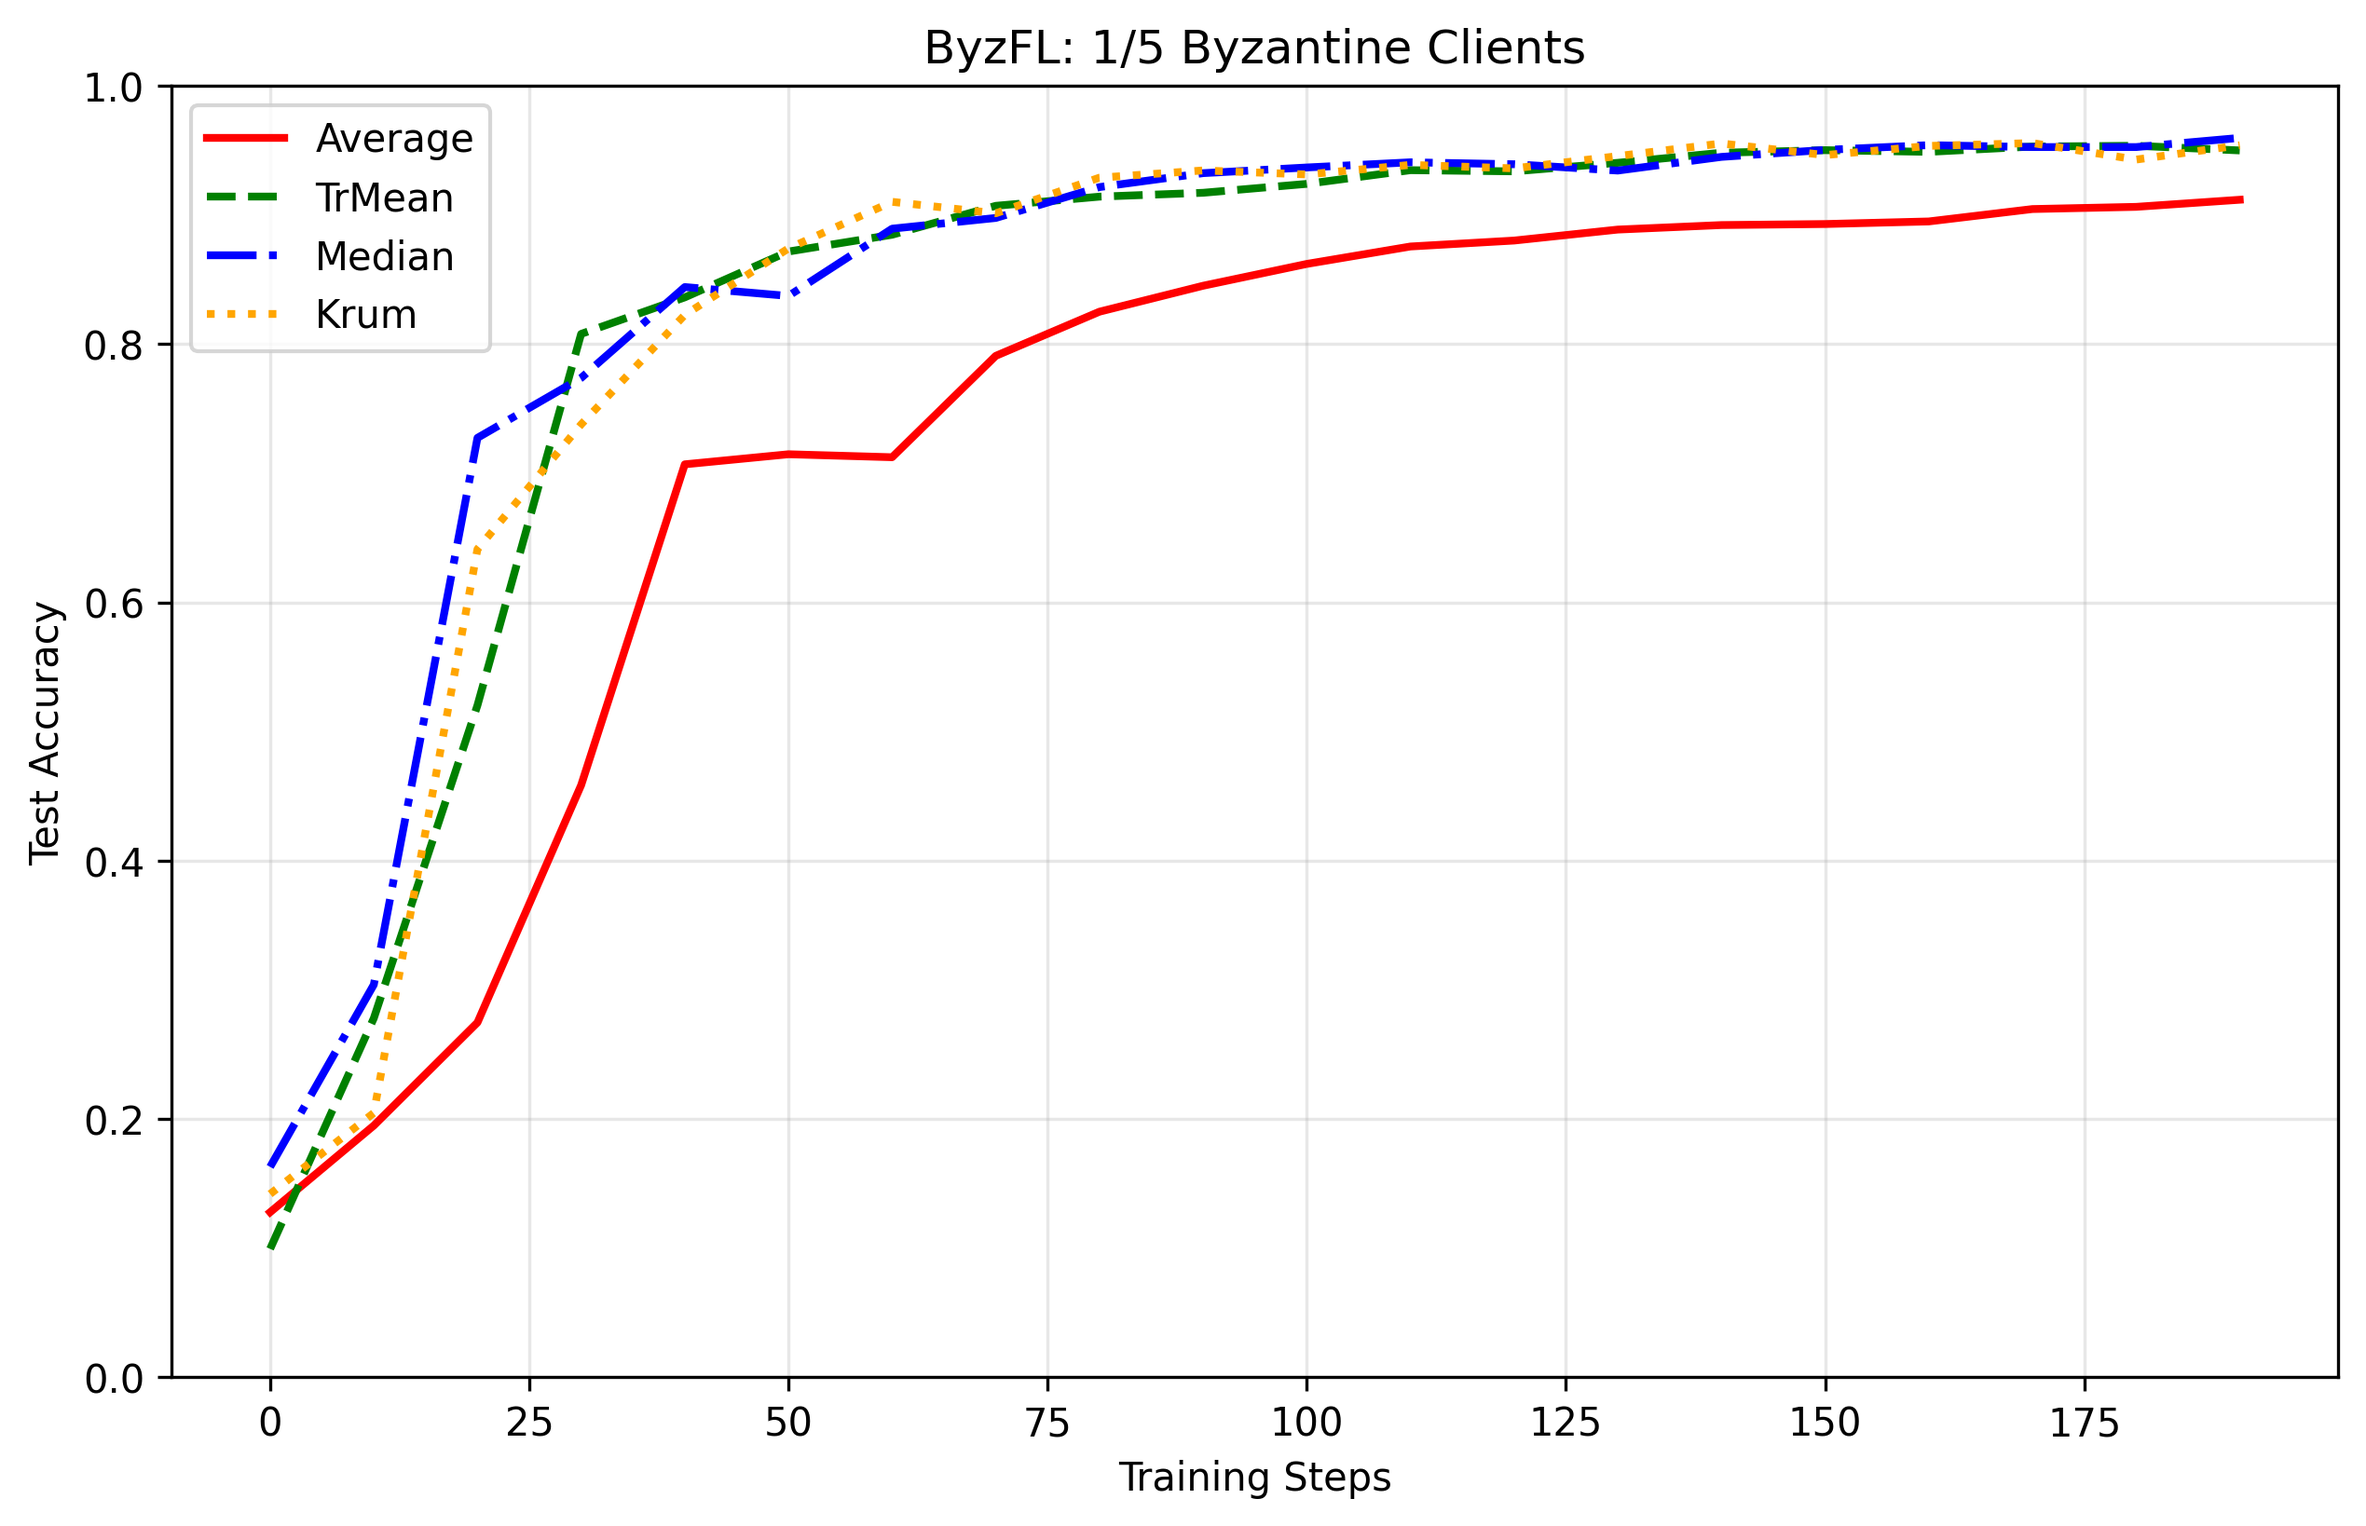
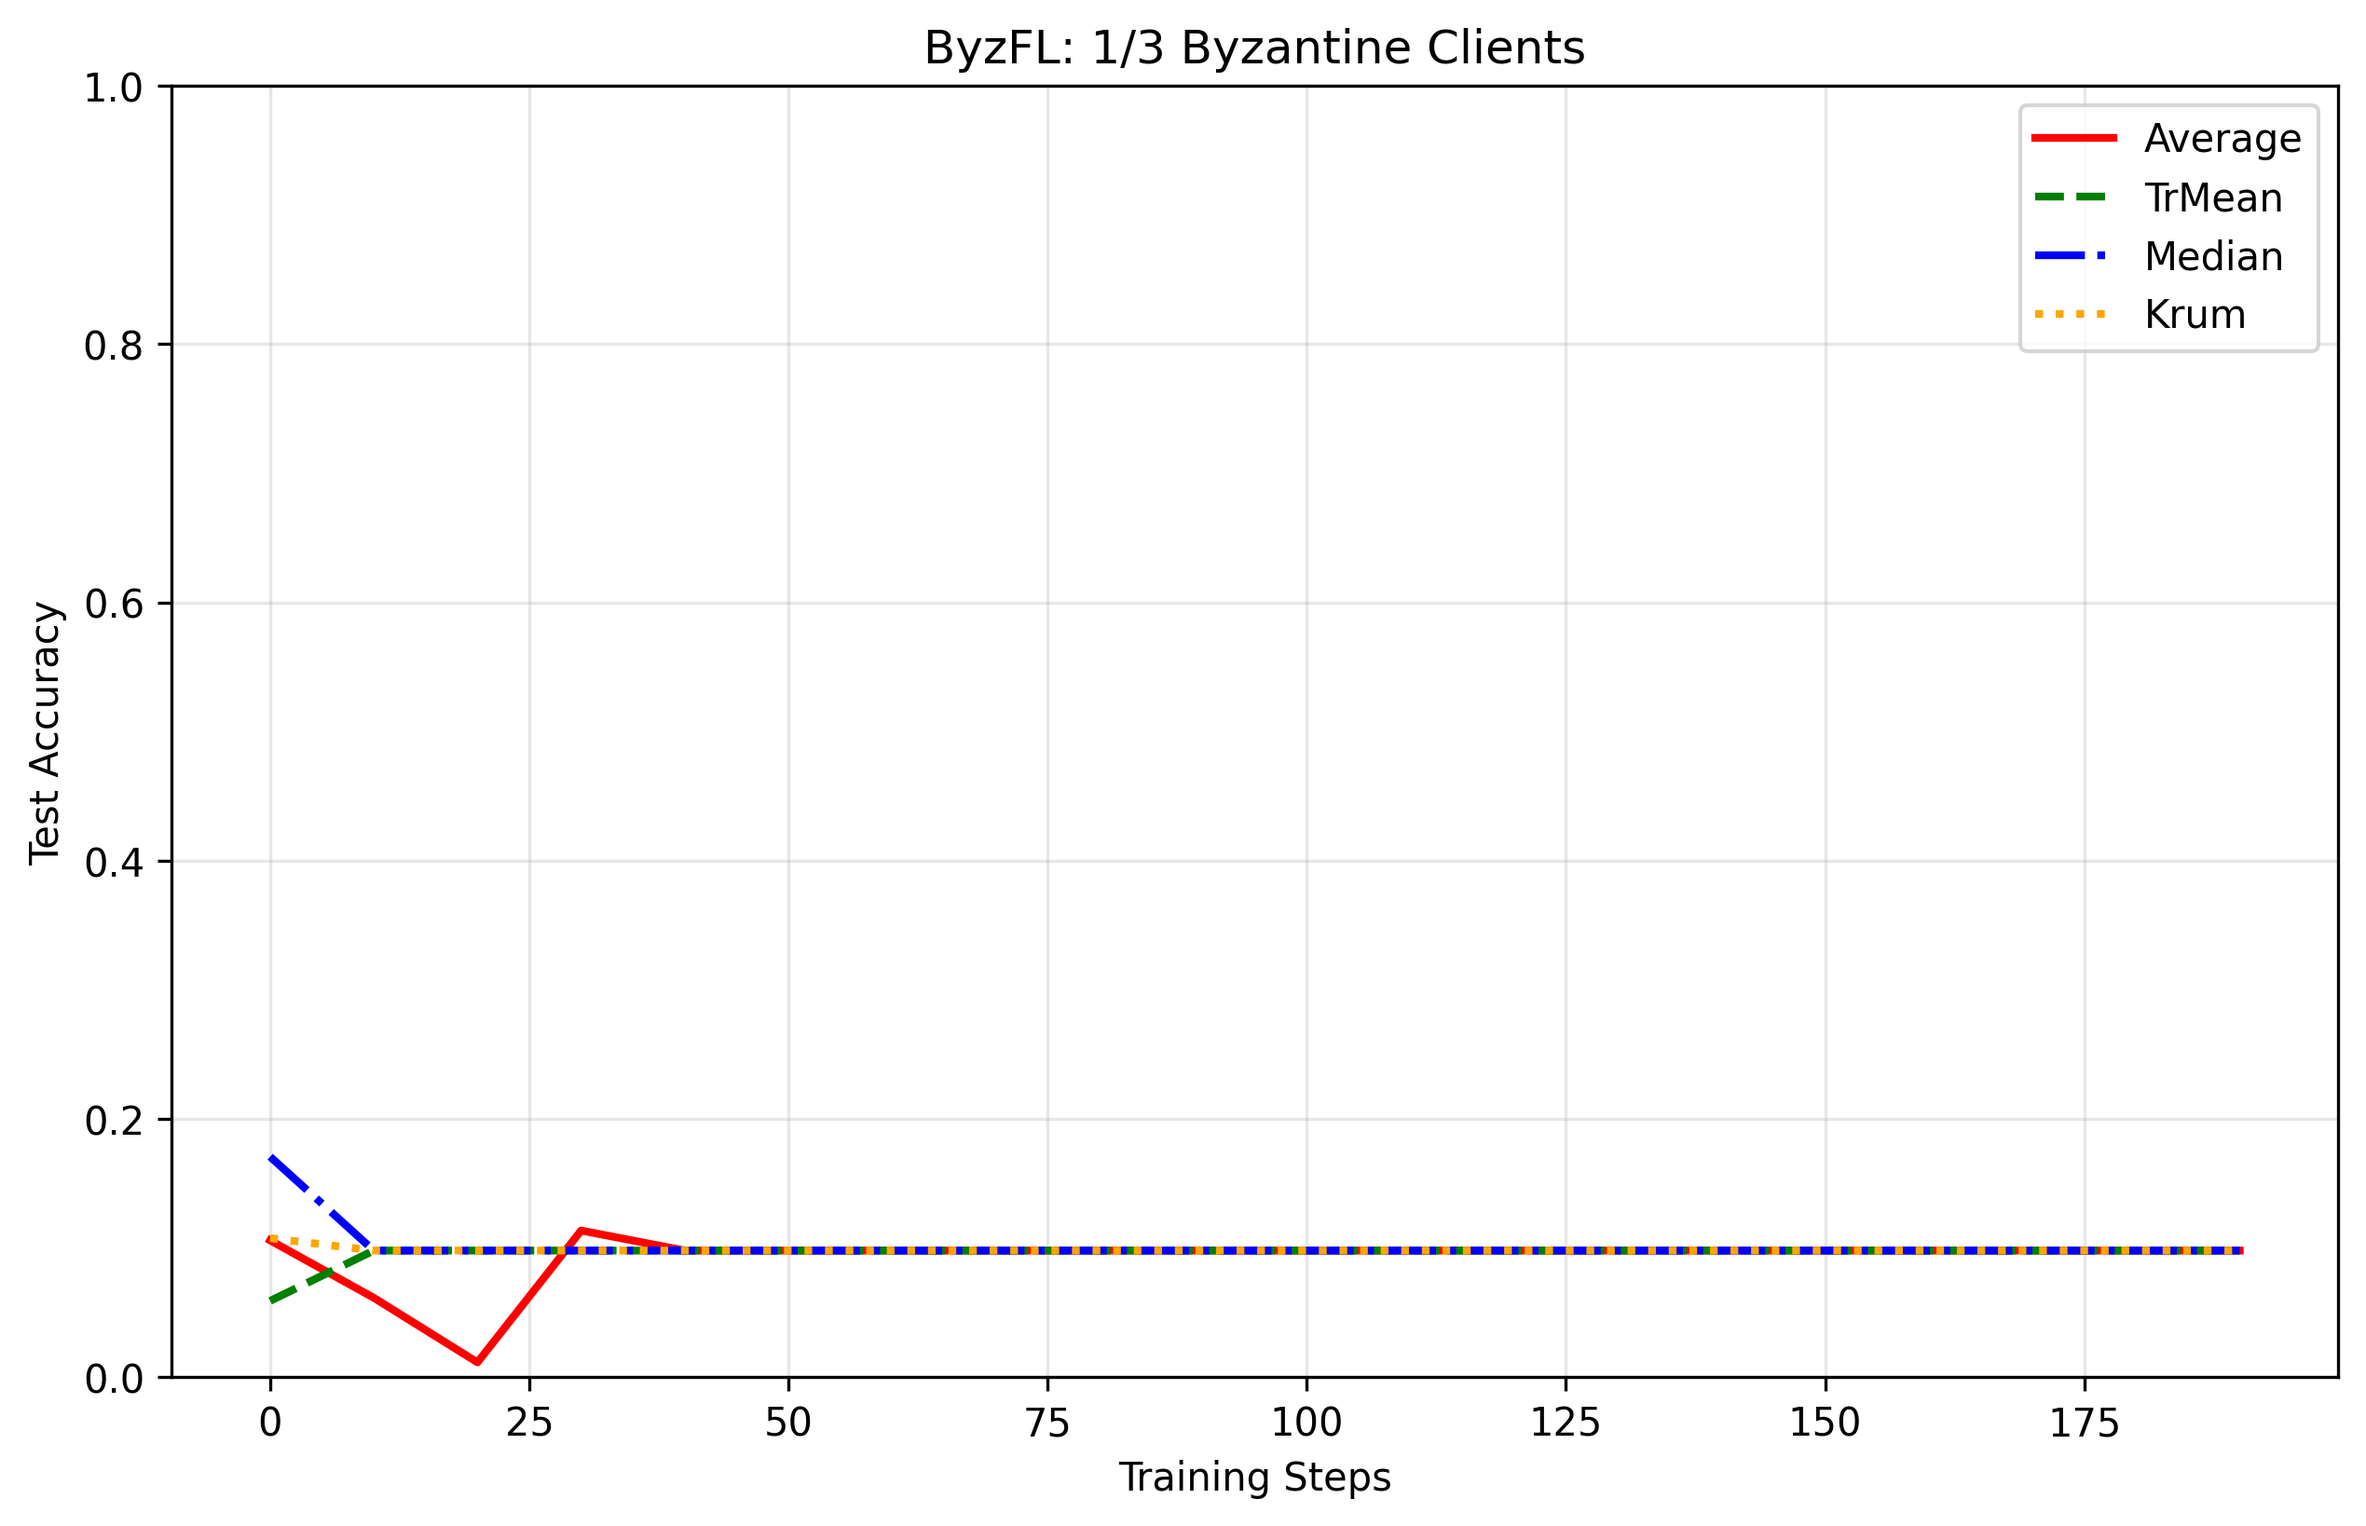
the gradient is mine oyster

diff --git a/simulation_byzfl.py b/simulation_byzfl.py
@@ -289,6 +289,7 @@ class ByzFLSimulation:
         if not self.results:
             raise ValueError("No results to plot. Run simulation first.")
 
+        # Default: plot all available aggregators
         if aggregator_names is None:
             aggregator_names = list(self.results.keys())
 
@@ -297,26 +298,41 @@ class ByzFLSimulation:
         colors = ["red", "green", "blue", "orange", "purple", "brown"]
         linestyles = ["-", "--", "-.", ":", "-", "--"]
 
+        x_step = 10  # distance between evaluation points
+
         for idx, name in enumerate(aggregator_names):
-            if name in self.results:
-                plt.plot(
-                    [i * 10 for i in range(len(self.results[name]))],
-                    self.results[name],
-                    label=name,
-                    color=colors[idx % len(colors)],
-                    linestyle=linestyles[idx % len(linestyles)],
-                    linewidth=2,
-                )
+            if name not in self.results:
+                continue
+
+            y_values = self.results[name]
+            x_values = [i * x_step for i in range(len(y_values))]
+
+            plt.plot(
+                x_values,
+                y_values,
+                label=name,
+                color=colors[idx % len(colors)],
+                linestyle=linestyles[idx % len(linestyles)],
+                linewidth=2,
+            )
 
         if title is None:
             title = f"ByzFL: {self.num_byzantine_clients}/{self.total_clients} Byzantine Clients"
 
+        # ----- Axis formatting -----
         plt.title(title)
         plt.xlabel("Training Steps")
         plt.ylabel("Test Accuracy")
+
+        # Force plot to start at 0 and end at last point
+        if aggregator_names:
+            first_name = aggregator_names[0]
+            n_points = len(self.results[first_name])
+            plt.xlim(0, (n_points - 1) * x_step)
+
+        plt.ylim(0, 1.0)
         plt.grid(True, alpha=0.3)
         plt.legend()
-        plt.ylim(0, 1.0)
 
         if save_path:
             os.makedirs(os.path.dirname(save_path), exist_ok=True)

diff --git a/config.py b/config.py
@@ -9,7 +9,7 @@ DEVICE = "cuda"
 
 # Simulation parameters
 SIMULATION_CONFIG = {
-    "num_honest": 4,  # Number of honest clients
+    "num_honest": 3,  # Number of honest clients
     "num_byzantine": 1,  # Number of Byzantine clients
     "rounds": 200,  # Number of communication rounds
     "batch_size": 64,
@@ -59,10 +59,9 @@ ATTACK_CONFIG = {
     # Options: SignFlipping, Noise, InnerProductManipulation, Optimal_InnerProductManipulation
     "attack_parameters": {
         "tau": 3.0,  # For InnerProductManipulation
-        "scale": 10.0,  # For SignFlip
-        "noise_std": 0.1,  # For Noise attack
+        # "scale": 10.0,  # For SignFlip
+        # "noise_std": 0.1,  # For Noise attack
     },
-    "use_pre_aggregation": False,
 }
 
 # Aggregator parameters
@@ -85,8 +84,8 @@ AGGREGATOR_CONFIG = {
 # Output/Result parameters
 results_suffix = f"_{ATTACK_CONFIG['attack_name']}_{MODEL_CONFIG["optimizer_name"]}"
 OUTPUT_CONFIG = {
-    "plot_save_path": f"results/fl_comparison{results_suffix}.png",
-    "results_save_path": f"results/simulation_results{results_suffix}.json",
+    "plot_save_path": f"results/fl_comparison{results_suffix}_{SIMULATION_CONFIG['num_byzantine']}_{SIMULATION_CONFIG['num_honest']}.png",
+    "results_save_path": f"results/simulation_results{results_suffix}_{SIMULATION_CONFIG['num_byzantine']}_{SIMULATION_CONFIG['num_honest']}.json",
     "verbose": True,
     "save_models": False,
 }

diff --git a/utils/train.py b/utils/train.py
@@ -2,21 +2,18 @@
 Training
 """
 
-from tqdm import tqdm
-
 
 def train(server, nb_training_steps, honest_clients, byz_client):
     accuracy_history = []  # {"test":[], "validation":[]}
 
-    for training_step in tqdm(range(nb_training_steps), desc="Training"):
+    for training_step in range(nb_training_steps):
 
-        # Evaluate Global Model Every 100 Training Steps
+        # Evaluate Global Model Every 10 Training Steps
         if training_step % 10 == 0:
             test_acc = server.compute_test_accuracy()
             accuracy_history.append(test_acc)
-            # print(f"--- Training Step {training_step}/{nb_training_steps} ---")
-            # print(f"Test Accuracy: {test_acc:.4f}")
-
+            print(f"--- Training Step {training_step}/{nb_training_steps} ---")
+            print(f"Test Accuracy: {test_acc:.4f}")
         # Honest Clients Compute Gradients
         for client in honest_clients:
             client.compute_gradients()
@@ -39,5 +36,10 @@ def train(server, nb_training_steps, honest_clients, byz_client):
         new_model = server.get_dict_parameters()
         for client in honest_clients:
             client.set_model_state(new_model)
+
+    test_acc = server.compute_test_accuracy()
+    accuracy_history.append(test_acc)
+    print(f"--- Training Step {training_step}/{nb_training_steps} ---")
+    print(f"Test Accuracy: {test_acc:.4f}")
 
     return accuracy_history

diff --git a/fl_simulation.py b/fl_simulation.py
@@ -82,11 +82,11 @@ server = Server(
         "weight_decay": 0.0001,
         "milestones": [1000],
         "learning_rate_decay": 0.25,
-        "aggregator_info": {"name": "TrMean", "parameters": {"f": nb_byz_clients}},
-        "pre_agg_list": [
-            {"name": "Clipping", "parameters": {"c": 2.0}},
-            {"name": "NNM", "parameters": {"f": nb_byz_clients}},
-        ],
+        "aggregator_info": {"name": "Average", "parameters": {"f": nb_byz_clients}},
+        "pre_agg_list": [],
+        #     {"name": "Clipping", "parameters": {"c": 2.0}},
+        #     {"name": "NNM", "parameters": {"f": nb_byz_clients}},
+        # ],
     }
 )
 

diff --git a/main.py b/main.py
@@ -47,7 +47,7 @@ def main():
     sim.plot_results(save_path=config.OUTPUT_CONFIG["plot_save_path"])
 
     # Save results
-    sim.save_results(save_path=config.OUTPUT_CONFIG["results_save_path"])
+    # sim.save_results(save_path=config.OUTPUT_CONFIG["results_save_path"])
 
     return
 
